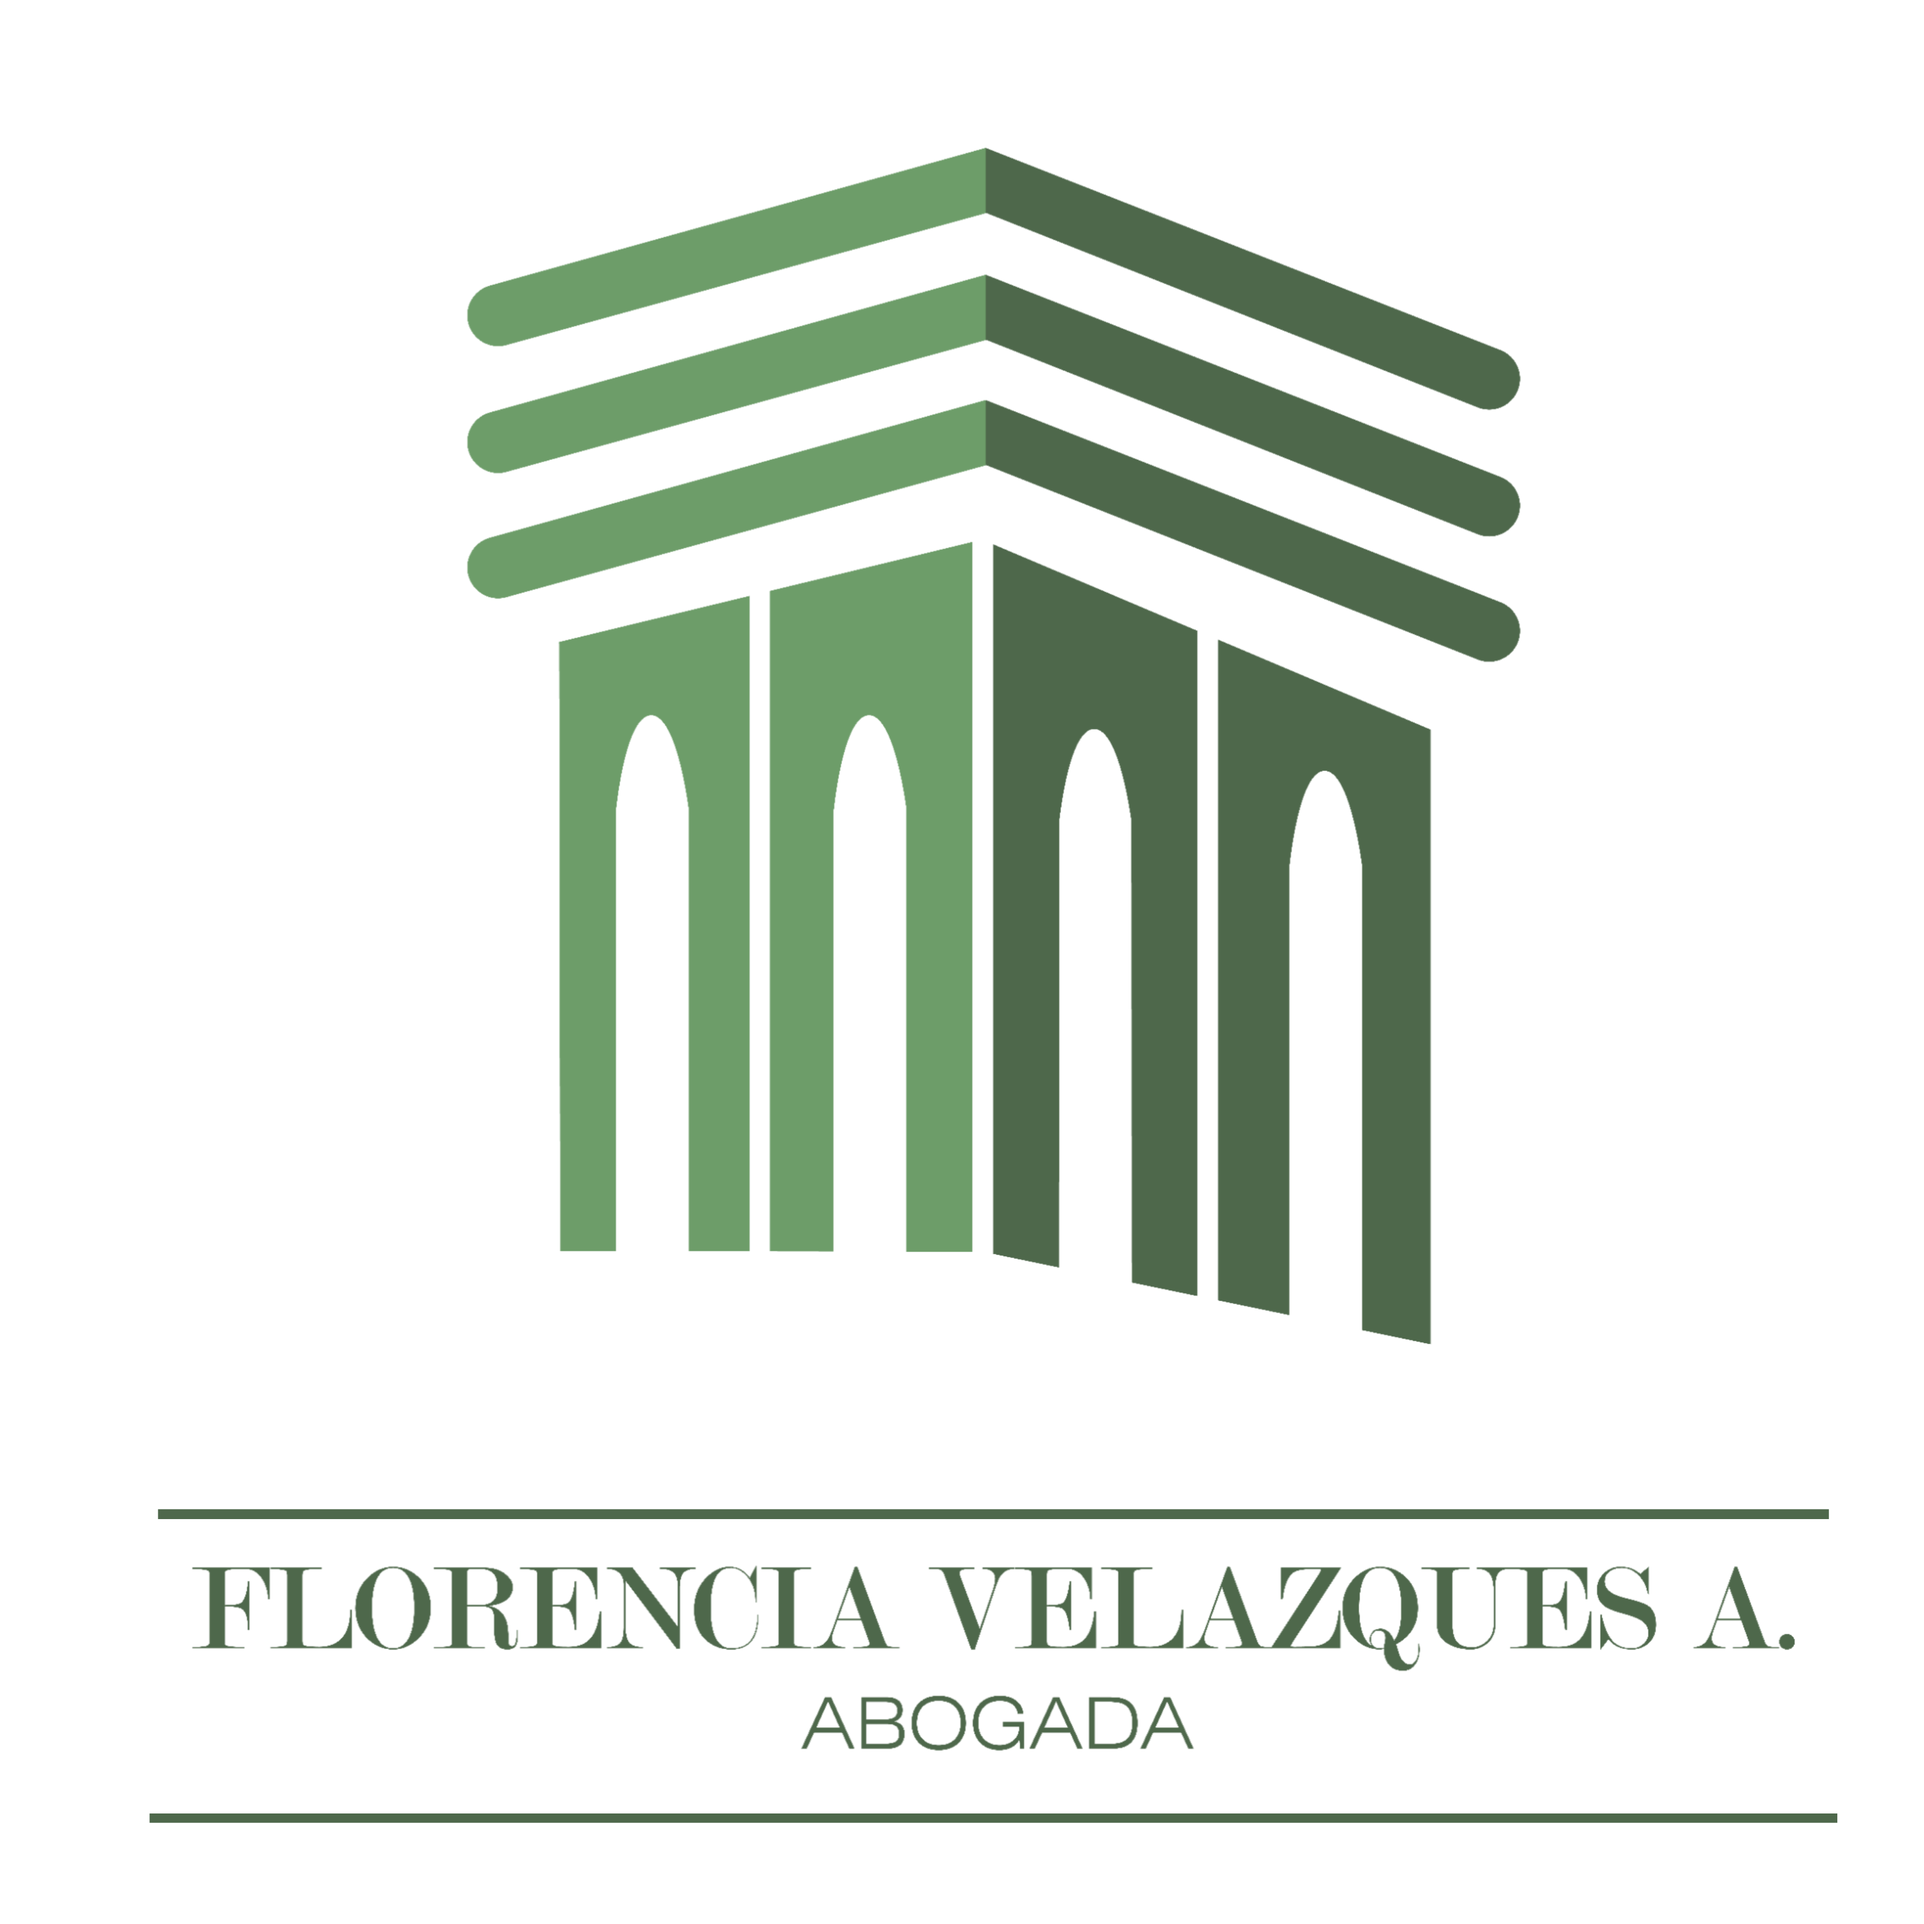
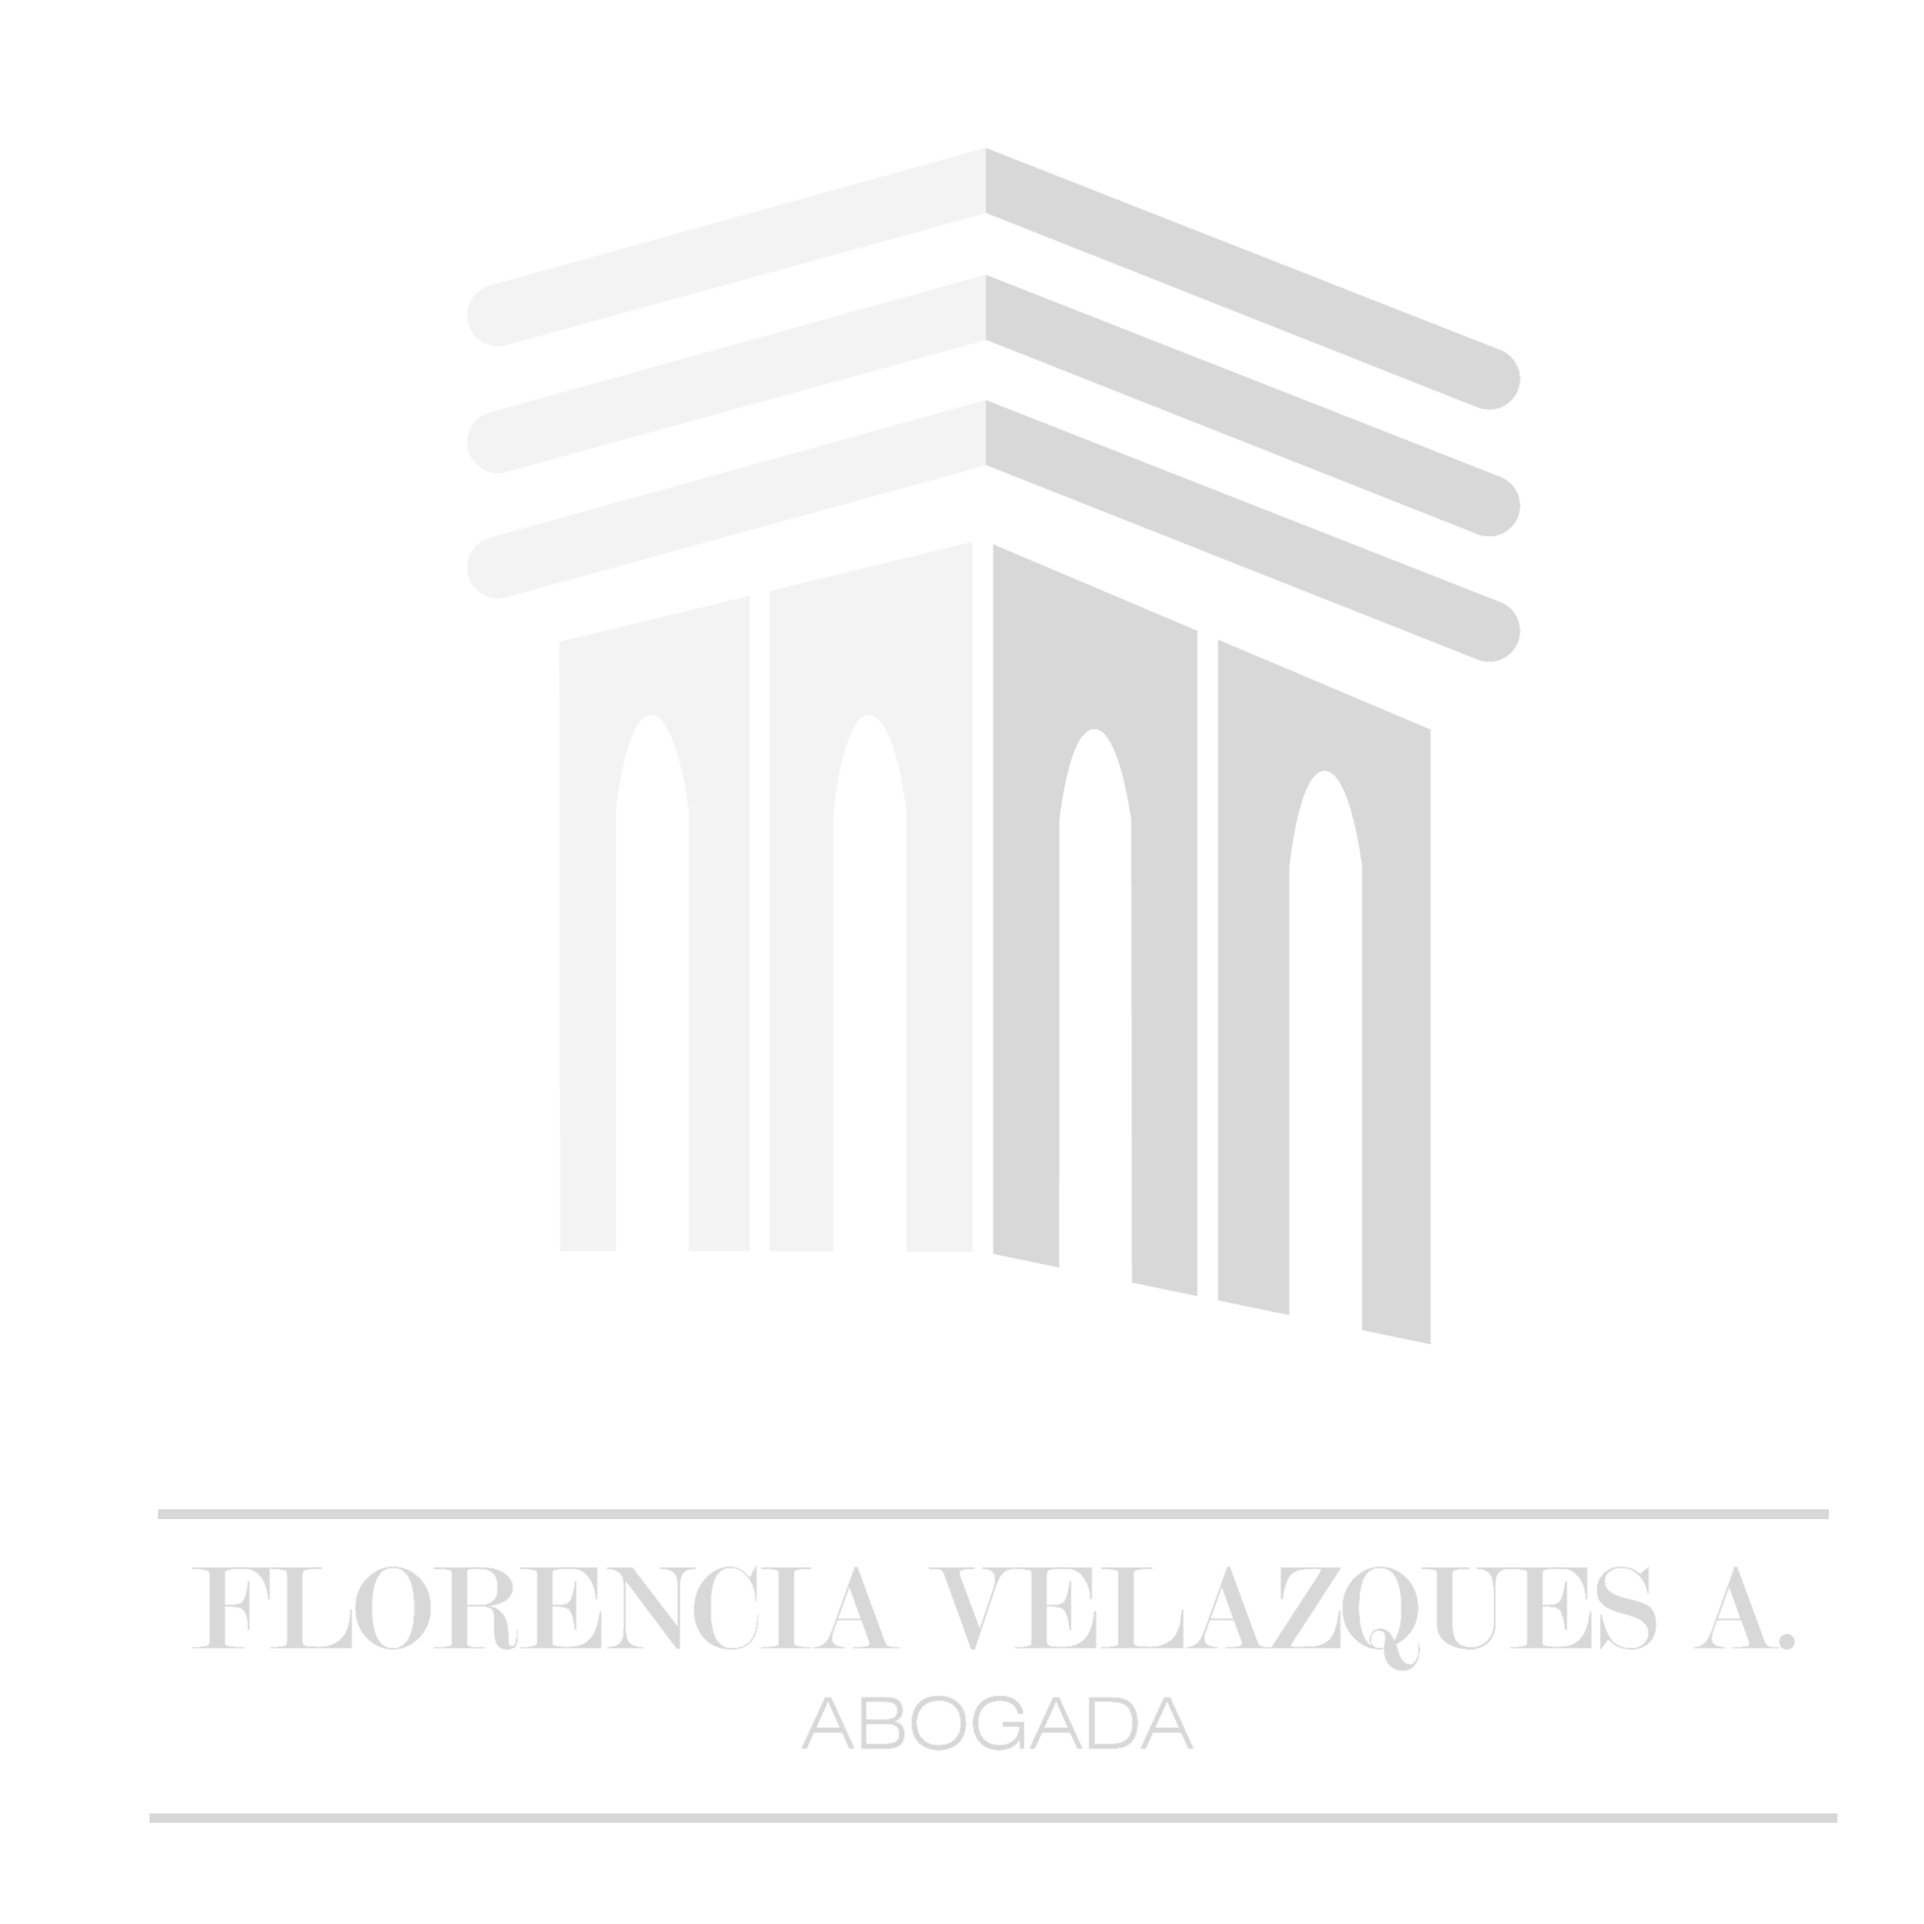
Nuevo diseño

Changed region(s): [[0.2182, 0.0624, 0.8106, 0.7171], [0.0935, 0.7794, 0.9353, 0.9042], [0.0935, 0.9353, 0.9353, 0.9665]]

diff --git a/index.html b/index.html
@@ -20,7 +20,7 @@
     <nav class="navbar navbar-expand-lg fixed-top" id="navbar">
         <div class="container-fluid">
             <a href="#">
-                <img src="images/logos/fv_verde1.png" alt="Logo" width="50" height="50" class="d-inline-block align-text-top" id="logo-img">
+                <img src="images/logos/fv_blanco.png" alt="Logo" width="50" height="50" class="d-inline-block align-text-top" id="logo-img">
             </a>
             <button class="navbar-toggler" type="button" data-bs-toggle="collapse" data-bs-target="#navbarNav" aria-controls="navbarNav" aria-expanded="false" aria-label="Toggle navigation">
                 <span class="navbar-toggler-icon"></span>
@@ -31,13 +31,13 @@
                         <a class="nav-link" href="#inicio"><strong>Inicio</strong></a>
                     </li>
                     <li class="nav-item">
-                        <a class="nav-link" href="#servicios">Servicios</a>
+                        <a class="nav-link" href="#servicios"><strong>Servicios</strong></a>
                     </li>
                     <li class="nav-item">
-                        <a class="nav-link" href="#nosotros">Quienes somos</a>
+                        <a class="nav-link" href="#nosotros"><strong>Quienes somos</strong></a>
                     </li>
                     <li class="nav-item">
-                        <a class="nav-link" href="#contacto">Contacto</a>
+                        <a class="nav-link" href="#contacto"><strong>Contacto</strong></a>
                     </li>
                 </ul>
             </div>
@@ -46,7 +46,25 @@
 
     <section id="inicio" class="section inicio">
         <img src="images/marca.png" alt="marca">
+            <div id="contacto-div" class="contacto-div">
+        <div class="redes-sociales">
+            <a href="https://www.instagram.com/abg.florencia/" target="_blank" class="red-social-link">
+                <i class="fab fa-instagram"></i> 
+            </a>
+            <a href="https://www.facebook.com/profile.php?id=61558880305161" target="_blank" class="red-social-link">
+                <i class="fab fa-facebook"></i> 
+            </a>
+            <a href="https://wa.me/5493876570793" target="_blank" class="red-social-link">
+                <i class="fab fa-whatsapp"></i> 
+            </a>
+            <a href="mailto:abogadaflorenciavelazques@gmail.com" target="_blank" class="red-social-link">
+                <i class="fas fa-envelope"></i> 
+            </a>
+        </div>
+    </div>
     </section>
+
+
 
     
     <section id="servicios" class="section servicios">
@@ -211,35 +229,13 @@
             </div>
             <div class="derecha">
                 <h3>¡Contactanos!</h3>
-                <div class="redes-sociales">
-                    <a href="https://www.instagram.com/abg.florencia/" target="_blank" class="red-social-link">
-                        <i class="fab fa-instagram"></i> 
-                    </a>
-                    <a href="https://www.facebook.com/profile.php?id=61558880305161" target="_blank" class="red-social-link">
-                        <i class="fab fa-facebook"></i> 
-                    </a>
-                    <a href="https://wa.me/5493876570793" target="_blank" class="red-social-link">
-                        <i class="fab fa-whatsapp"></i> 
-                    </a>
-                    <a href="mailto:abogadaflorenciavelazques@gmail.com" target="_blank" class="red-social-link">
-                        <i class="fas fa-envelope"></i> 
-                    </a>
-                </div>
                 <div class="datos-contacto">
                     
-                    <form class="contacto-form" name="contacto-form" netlify>
-                        <div class="fila">
+
                             <div class="entrada">
-                                <label for="nombre">Nombre</label>
+                                <label for="nombre">Nombre y apellido</label>
                                 <input type="text" id="nombre" name="nombre" placeholder="Nombre" required>
                             </div>
-                            <div class="entrada">
-                                <label for="apellido">Apellido</label>
-                                <input type="text" id="apellido" name="apellido" placeholder="Apellido" required>
-                            </div>
-                        </div>
-                        
-                        <div class="fila">
                             <div class="entrada">
                                 <label for="telefono">Número de teléfono</label>
                                 <input type="tel" id="telefono" name="telefono" placeholder="Número de teléfono" required>
@@ -248,14 +244,14 @@
                                 <label for="correo">Correo electrónico</label>
                                 <input type="email" id="correo" name="correo" placeholder="Correo electrónico" required>
                             </div>
-                        </div>
+
                         
-                        <div class="fila">
+
                             <div class="entrada">
                                 <label for="mensaje">Mensaje</label>
                                 <textarea id="mensaje" name="mensaje" placeholder="Mensaje" required></textarea>
                             </div>
-                        </div>
+
                         
                         <button type="submit">Enviar</button>
                     </form>

diff --git a/styles/principal/inicio.css b/styles/principal/inicio.css
@@ -3,6 +3,7 @@
     background-size: cover;
     background-position: center;
     display: flex;
+    flex-direction: column;
     align-items: center;
     justify-content: center;
     text-align: center;
@@ -19,7 +20,7 @@
     left: 0;
     width: 100%;
     height: 100%;
-    background: rgba(0, 0, 0, 0);
+    background: rgba(0, 0, 0, 0.5);
     animation: fadeBackground 1.5s ease-in-out forwards;
 }
 
@@ -31,6 +32,46 @@
     z-index: 2;
     animation: fadeIn 1.5s ease-in-out;
 }
+
+.contacto-div {
+    padding-top: 20px;
+    width: 50%;
+    z-index: 1000;
+}
+
+.redes-sociales {
+    display: flex;
+    flex-wrap: wrap;
+    justify-content: space-around;
+    align-items: center;
+    text-align: center;
+}
+  
+  .red-social-link {
+    display: flex;
+    align-items: center;
+    margin-bottom: 15px;
+    color: var(--gris-texto);
+    flex-direction: column;
+    transition: var(--transicion);
+    text-decoration: none;
+
+  }
+  
+  .red-social-link i {
+    font-size: 1.5rem;
+    color: var(--gris);
+    margin-right: 15px;
+    transition: var(--transicion);
+  }
+  
+  .red-social-link:hover {
+    color: var(--verde-principal);
+  }
+  
+  .red-social-link:hover i {
+    transform: scale(1.2);
+  }
 
 @keyframes fadeIn {
     0% {
@@ -48,6 +89,13 @@
         background: rgba(0, 0, 0, 0);
     }
     100% {
-        background: rgba(0, 0, 0, 0.1);
+        background: rgba(0, 0, 0, 0.5);
+    }
+}
+@media (max-width: 768px) {
+    .contacto-div {
+        padding-top: 50px;
+        width: 100%;
+        z-index: 1000;
     }
 }

diff --git a/styles/principal/servicios.css b/styles/principal/servicios.css
@@ -12,10 +12,7 @@
 .contenedor_tarjeta {
     padding: 0px;
     border-radius: 10px;
-    transition: transform 0.3s ease-in-out;
-    opacity: 0; /* Comienza invisible */
-    animation-duration: 1s;
-    animation-fill-mode: forwards; /* Mantiene el estado final de la animación */
+    opacity: 1;
 }
 
 .tarjeta {
@@ -62,29 +59,6 @@
     color: #666;
     line-height: 1.4;
 }
-
-@keyframes slideInLeft {
-    0% {
-        transform: translateX(-100%); /* Comienza fuera de la pantalla por la izquierda */
-        opacity: 0;
-    }
-    100% {
-        transform: translateX(0); /* Termina en su posición original */
-        opacity: 1;
-    }
-}
-
-@keyframes slideInRight {
-    0% {
-        transform: translateX(100%); /* Comienza fuera de la pantalla por la derecha */
-        opacity: 0;
-    }
-    100% {
-        transform: translateX(0); /* Termina en su posición original */
-        opacity: 1;
-    }
-}
-
 @media (max-width: 768px) {
     .contenedor_servicios {
         grid-template-columns: 1fr;

diff --git a/styles/styles.css b/styles/styles.css
@@ -7,6 +7,7 @@
     --gris-texto: rgba(68, 68, 68, 1);
     --marron-acento: rgba(133, 117, 95, 1);
     --blanco: #ffffff;
+    --gris: rgb(221, 224, 245);
     
     --fuente-principal: 'Roboto', sans-serif;
     --fuente-titulo: 'Roboto', sans-serif;
@@ -75,6 +76,12 @@ a:hover {
     z-index: 1;
 }
 
+.navbar{
+    backdrop-filter: blur(5px);
+    background: rgba(0, 0, 0, 0.02);
+    box-shadow: 0 4px 10px rgba(0, 0, 0, 0.2);
+}
+
 .navbar .nav-link:after {
     content: '';
     position: absolute;
@@ -87,10 +94,9 @@ a:hover {
 }
 
 .navbar .nav-link {
-    color: var(--gris-texto);
-    margin: 0 10px;
+    color: var(--gris);
+    margin: 0 5px;
     position: relative;
-    font-weight: 500;
     transition: var(--transicion);
 }
 
@@ -271,7 +277,7 @@ a:hover {
 
 .footer-bottom {
     margin-top: 1rem;
-    padding-top: 1rem;
+    padding-top: 2rem;
     border-top: 1px solid #333;
     text-align: center;
     color: #999;

diff --git a/styles/principal/contacto.css b/styles/principal/contacto.css
@@ -40,38 +40,6 @@
   font-size: 1.8rem;
 }
 
-.redes-sociales {
-  display: flex;
-  flex-wrap: wrap;
-  justify-content: space-around;
-  align-items: center;
-  text-align: center;
-}
-
-.red-social-link {
-  display: flex;
-  align-items: center;
-  margin-bottom: 15px;
-  color: var(--gris-texto);
-  flex-direction: column;
-  transition: var(--transicion);
-}
-
-.red-social-link i {
-  font-size: 2rem;
-  color: var(--verde-principal);
-  margin-right: 15px;
-  transition: var(--transicion);
-}
-
-.red-social-link:hover {
-  color: var(--verde-principal);
-}
-
-.red-social-link:hover i {
-  transform: scale(1.2);
-}
-
 /* Formulario de contacto */
 .contacto-form {
   background-color: var(--gris-claro);
